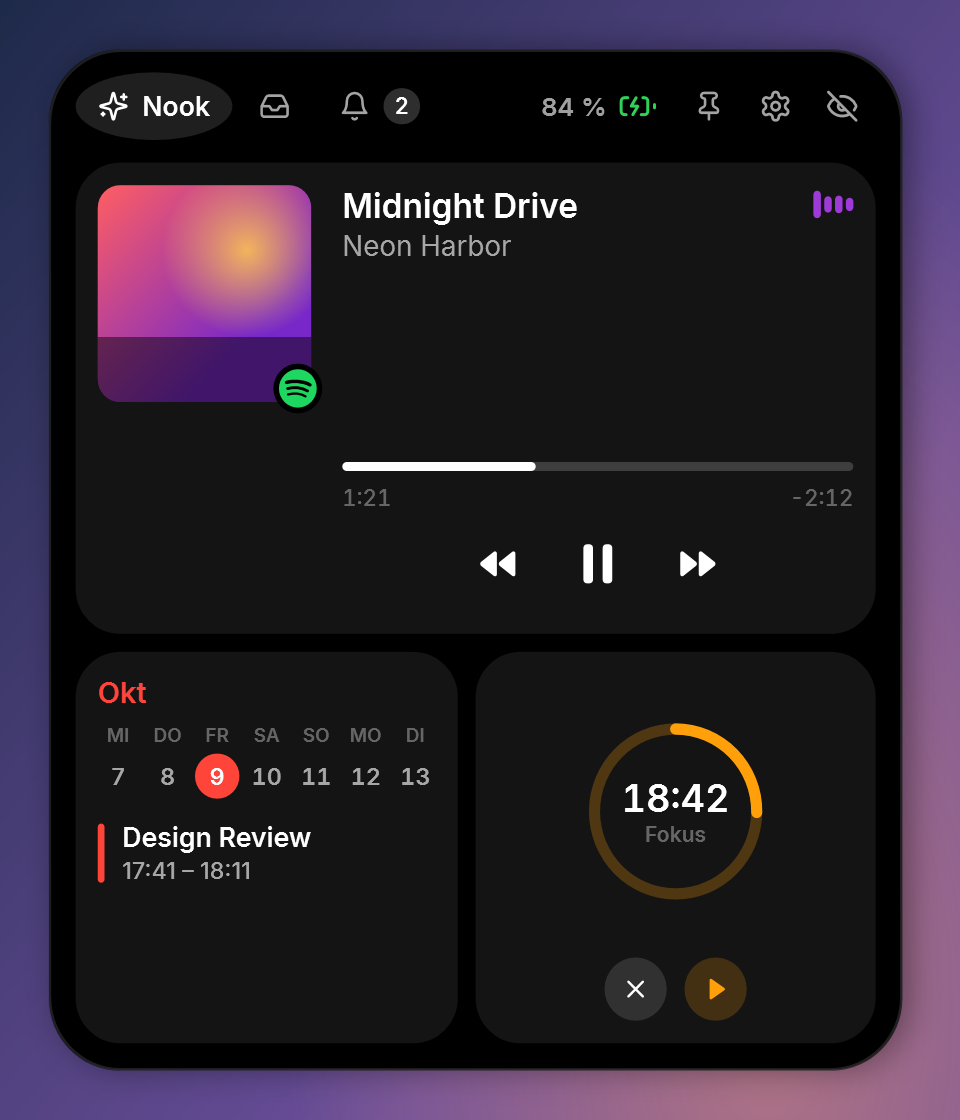
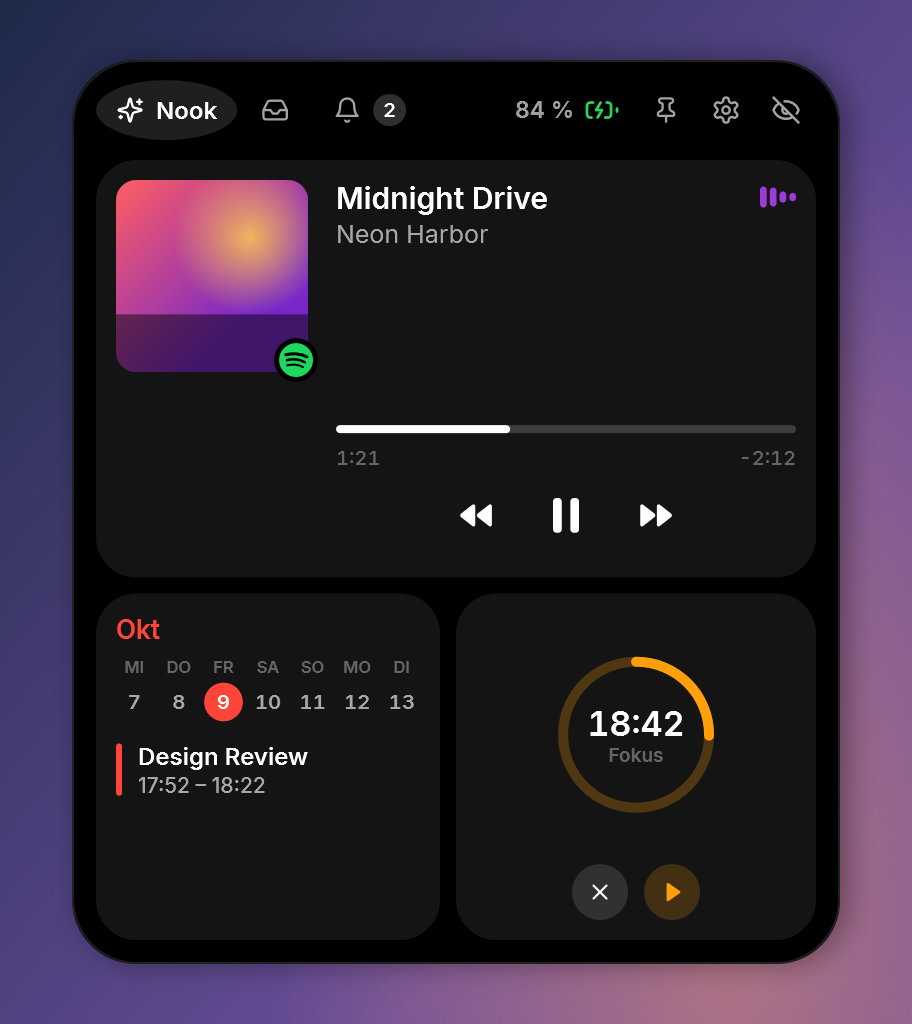
Fix distorted README renders (1:1 viewbox, cropped) and keep the calendar today-circle round
Claude-Session: https://claude.ai/code/session_012gKCEva5g5Z6uWC5ehUebk

diff --git a/src/DynamicBay/Island/Views/ExpandedView.xaml b/src/DynamicBay/Island/Views/ExpandedView.xaml
@@ -263,13 +263,15 @@
                         <DockPanel DockPanel.Dock="Top">
                             <TextBlock Style="{StaticResource T.Title}" Foreground="{StaticResource B.Red}" Text="{Binding Calendar.MonthText}" />
                         </DockPanel>
-                        <ItemsControl DockPanel.Dock="Top" ItemsSource="{Binding Calendar.Week}" Margin="-2,6,-2,0">
+                        <!-- Fixed-width day cells scaled as a whole, so the "today" circle stays round in narrow cards -->
+                        <Viewbox DockPanel.Dock="Top" StretchDirection="DownOnly" HorizontalAlignment="Left" Margin="-2,6,-2,0">
+                        <ItemsControl ItemsSource="{Binding Calendar.Week}">
                             <ItemsControl.ItemsPanel>
-                                <ItemsPanelTemplate><UniformGrid Rows="1" /></ItemsPanelTemplate>
+                                <ItemsPanelTemplate><StackPanel Orientation="Horizontal" /></ItemsPanelTemplate>
                             </ItemsControl.ItemsPanel>
                             <ItemsControl.ItemTemplate>
                                 <DataTemplate DataType="{x:Type s:DayCell}">
-                                    <StackPanel HorizontalAlignment="Center">
+                                    <StackPanel HorizontalAlignment="Center" Width="23">
                                         <TextBlock Style="{StaticResource T.Section}" FontSize="8.5" HorizontalAlignment="Center" Text="{Binding Weekday}" />
                                         <Border Width="20" Height="20" CornerRadius="10" Margin="0,3,0,0" Background="{Binding IsToday, Converter={StaticResource TodayBg}}">
                                             <TextBlock Style="{StaticResource T.Numeric}" FontSize="10.5" HorizontalAlignment="Center" VerticalAlignment="Center"
@@ -279,6 +281,7 @@
                                 </DataTemplate>
                             </ItemsControl.ItemTemplate>
                         </ItemsControl>
+                        </Viewbox>
 
                         <Grid Margin="0,10,0,0">
                             <!-- Next event -->

diff --git a/src/DynamicBay/Snapshots.cs b/src/DynamicBay/Snapshots.cs
@@ -120,14 +120,20 @@ public static class Snapshots
     private static void RenderClean(Window island, string file)
     {
         var root = (FrameworkElement)island.Content;
-        double w = root.ActualWidth, h = root.ActualHeight, k = 2;
+        var shape = (FrameworkElement)island.FindName("Shape");
+        // Crop: the island's own bounds plus a margin for the shadow (in the root's coordinate space).
+        var b = shape.TransformToAncestor(root).TransformBounds(new Rect(0, 0, shape.ActualWidth, shape.ActualHeight));
+        var crop = Rect.Inflate(b, 36, 30);
+        double w = crop.Width, h = crop.Height, k = 2;
         var dv = new DrawingVisual();
         using (var dc = dv.RenderOpen())
         {
             var bg = new LinearGradientBrush(Color.FromRgb(0x1E, 0x2A, 0x4A), Color.FromRgb(0x6B, 0x4E, 0x9B), 35);
             dc.DrawRectangle(bg, null, new Rect(0, 0, w, h));
             dc.DrawEllipse(new RadialGradientBrush(Color.FromArgb(120, 0xFF, 0x9F, 0x6B), Color.FromArgb(0, 0xFF, 0x9F, 0x6B)), null, new Point(w * 0.8, h * 0.9), w * 0.5, h * 0.8);
-            dc.DrawRectangle(new VisualBrush(root), null, new Rect(0, 0, w, h));
+            // Absolute viewbox = exact 1:1 mapping (a default VisualBrush would stretch the content bounds and distort).
+            var brush = new VisualBrush(root) { ViewboxUnits = BrushMappingMode.Absolute, Viewbox = crop, Stretch = Stretch.None };
+            dc.DrawRectangle(brush, null, new Rect(0, 0, w, h));
         }
         var rtb = new RenderTargetBitmap((int)(w * k), (int)(h * k), 96 * k, 96 * k, PixelFormats.Pbgra32);
         rtb.Render(dv);
